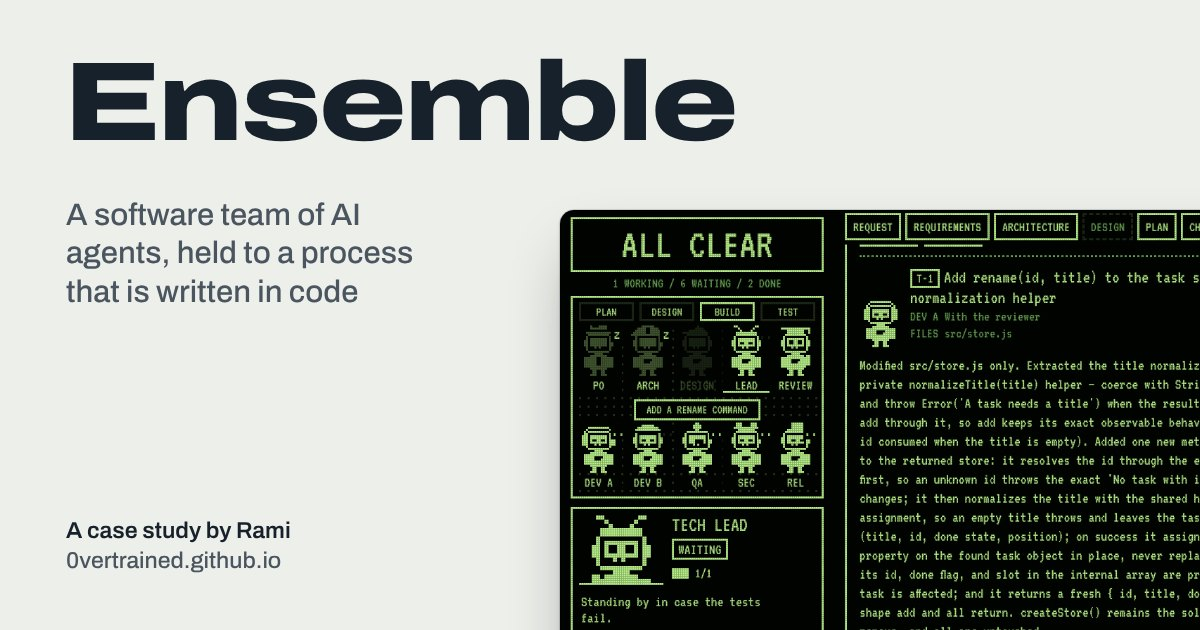
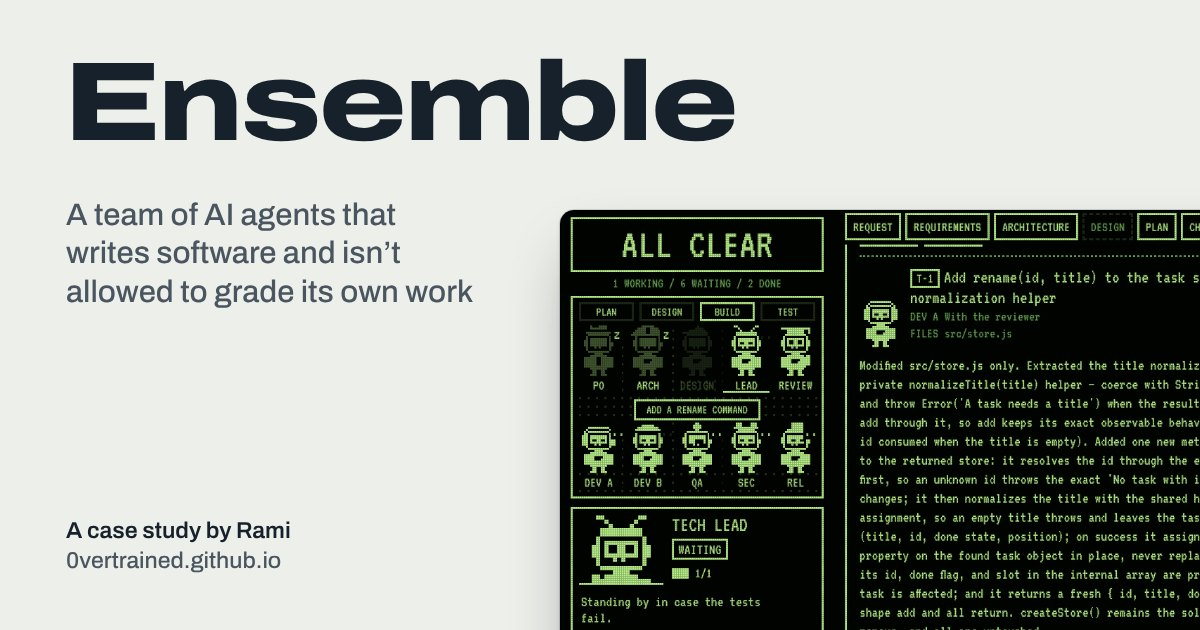
Carry the new line under each title to the case studies and their share pictures
The same four lines now open each case study, lead to the next one, title its link preview, and appear on the not-found page. The share pictures are rebuilt with them.

Changed region(s): [[0.0308, 0.3016, 0.4008, 0.4825]]

diff --git a/work/lattice/index.html b/work/lattice/index.html
@@ -12,7 +12,7 @@
   <link rel="icon" href="../../assets/img/favicon.svg" type="image/svg+xml">
   <meta property="og:type" content="article">
   <meta property="og:url" content="https://0vertrained.github.io/work/lattice/">
-  <meta property="og:title" content="Lattice: robot missions that keep their objective when the route or body changes">
+  <meta property="og:title" content="Lattice: software that keeps a robot’s mission going when the route is blocked or the robot changes">
   <meta property="og:description" content="A case study by Rami: three recorded runs in simulation, the operator console, and how the models were evaluated.">
   <meta property="og:image" content="https://0vertrained.github.io/assets/img/share/lattice.jpg">
   <meta property="og:image:width" content="1200">
@@ -48,7 +48,7 @@
     <article class="project" id="lattice" aria-labelledby="lattice-title">
       <header class="project__head">
         <h1 class="project__title" id="lattice-title" translate="no">Lattice</h1>
-        <p class="project__kind">Robot missions that keep their objective when the route or body changes</p>
+        <p class="project__kind">Software that keeps a robot’s mission going when the route is blocked or the robot changes</p>
       </header>
 
       <figure class="walkthrough project__lead" id="lattice-recording">
@@ -203,7 +203,7 @@
       <a class="onward__next" href="../caduceus/">
         <span class="onward__label">Next</span>
         <span class="onward__name" translate="no">Caduceus</span>
-        <span class="onward__what">A prior-authorization agent that keeps patient data inside the clinic</span>
+        <span class="onward__what">An AI agent for insurance approvals that keeps patient data inside the clinic</span>
       </a>
       <a class="onward__all" href="../../#work">All four pieces of work</a>
     </nav>

diff --git a/work/ensemble/index.html b/work/ensemble/index.html
@@ -12,7 +12,7 @@
   <link rel="icon" href="../../assets/img/favicon.svg" type="image/svg+xml">
   <meta property="og:type" content="article">
   <meta property="og:url" content="https://0vertrained.github.io/work/ensemble/">
-  <meta property="og:title" content="Ensemble: a software team of AI agents, held to a process that is written in code">
+  <meta property="og:title" content="Ensemble: a team of AI agents that writes software and isn’t allowed to grade its own work">
   <meta property="og:description" content="A case study by Rami: five recorded runs that replay in the browser, what the harness checks, and where a model failed.">
   <meta property="og:image" content="https://0vertrained.github.io/assets/img/share/ensemble.jpg">
   <meta property="og:image:width" content="1200">
@@ -45,7 +45,7 @@
     <article class="project" id="ensemble" aria-labelledby="ensemble-title">
       <header class="project__head">
         <h1 class="project__title" id="ensemble-title" translate="no">Ensemble</h1>
-        <p class="project__kind">A software team of AI agents, held to a process that is written in code</p>
+        <p class="project__kind">A team of AI agents that writes software and isn’t allowed to grade its own work</p>
       </header>
 
       <figure class="walkthrough project__lead" id="ensemble-recording">
@@ -174,7 +174,7 @@
       <a class="onward__next" href="../overtrained/">
         <span class="onward__label">Next</span>
         <span class="onward__name" translate="no">0VERTRAINED</span>
-        <span class="onward__what">A training app for athletes who lift and race, designed and built alone</span>
+        <span class="onward__what">A training app for people who lift and race, designed and built alone</span>
       </a>
       <a class="onward__all" href="../../#work">All four pieces of work</a>
     </nav>

diff --git a/work/caduceus/index.html b/work/caduceus/index.html
@@ -12,7 +12,7 @@
   <link rel="icon" href="../../assets/img/favicon.svg" type="image/svg+xml">
   <meta property="og:type" content="article">
   <meta property="og:url" content="https://0vertrained.github.io/work/caduceus/">
-  <meta property="og:title" content="Caduceus: a prior-authorization agent that keeps patient data inside the clinic">
+  <meta property="og:title" content="Caduceus: an AI agent for insurance approvals that keeps patient data inside the clinic">
   <meta property="og:description" content="A case study by Rami: what it does, what leaves the building, and how it was checked on synthetic patients.">
   <meta property="og:image" content="https://0vertrained.github.io/assets/img/share/caduceus.jpg">
   <meta property="og:image:width" content="1200">
@@ -45,7 +45,7 @@
     <article class="project" id="caduceus" aria-labelledby="caduceus-title">
       <header class="project__head">
         <h1 class="project__title" id="caduceus-title" translate="no">Caduceus</h1>
-        <p class="project__kind">A prior-authorization agent that keeps patient data inside the clinic</p>
+        <p class="project__kind">An AI agent for insurance approvals that keeps patient data inside the clinic</p>
       </header>
 
       <figure class="walkthrough project__lead" id="caduceus-walkthrough">
@@ -155,7 +155,7 @@
       <a class="onward__next" href="../ensemble/">
         <span class="onward__label">Next</span>
         <span class="onward__name" translate="no">Ensemble</span>
-        <span class="onward__what">A software team of AI agents, held to a process that is written in code</span>
+        <span class="onward__what">A team of AI agents that writes software and isn’t allowed to grade its own work</span>
       </a>
       <a class="onward__all" href="../../#work">All four pieces of work</a>
     </nav>

diff --git a/work/overtrained/index.html b/work/overtrained/index.html
@@ -12,7 +12,7 @@
   <link rel="icon" href="../../assets/img/favicon.svg" type="image/svg+xml">
   <meta property="og:type" content="article">
   <meta property="og:url" content="https://0vertrained.github.io/work/overtrained/">
-  <meta property="og:title" content="0VERTRAINED: a training app for athletes who lift and race, designed and built alone">
+  <meta property="og:title" content="0VERTRAINED: a training app for people who lift and race, designed and built alone">
   <meta property="og:description" content="A case study by Rami: the product, how recovery and training are worked out, and how it is checked.">
   <meta property="og:image" content="https://0vertrained.github.io/assets/img/share/overtrained.jpg">
   <meta property="og:image:width" content="1200">
@@ -45,7 +45,7 @@
     <article class="project" id="overtrained" aria-labelledby="overtrained-title">
       <header class="project__head">
         <h1 class="project__title" id="overtrained-title" translate="no">0VERTRAINED</h1>
-        <p class="project__kind">A training app for athletes who lift and race, designed and built alone</p>
+        <p class="project__kind">A training app for people who lift and race, designed and built alone</p>
       </header>
 
       <div class="project__lead">
@@ -118,7 +118,7 @@
       <a class="onward__next" href="../lattice/">
         <span class="onward__label">Next</span>
         <span class="onward__name" translate="no">Lattice</span>
-        <span class="onward__what">Robot missions that keep their objective when the route or body changes</span>
+        <span class="onward__what">Software that keeps a robot’s mission going when the route is blocked or the robot changes</span>
       </a>
       <a class="onward__all" href="../../#work">All four pieces of work</a>
     </nav>

diff --git a/404.html b/404.html
@@ -37,10 +37,10 @@
       <p>The address may be mistyped, or the page may have moved. Everything on this site is one step from here.</p>
       <ul class="lost__ways">
         <li><a href="/">The front page</a> <span>The work in brief, experience and contact</span></li>
-        <li><a href="/work/caduceus/" translate="no">Caduceus</a> <span>A prior-authorization agent that keeps patient data inside the clinic</span></li>
-        <li><a href="/work/ensemble/" translate="no">Ensemble</a> <span>A software team of AI agents, held to a process that is written in code</span></li>
-        <li><a href="/work/overtrained/" translate="no">0VERTRAINED</a> <span>A training app for athletes who lift and race, designed and built alone</span></li>
-        <li><a href="/work/lattice/" translate="no">Lattice</a> <span>Robot missions that keep their objective when the route or body changes</span></li>
+        <li><a href="/work/caduceus/" translate="no">Caduceus</a> <span>An AI agent for insurance approvals that keeps patient data inside the clinic</span></li>
+        <li><a href="/work/ensemble/" translate="no">Ensemble</a> <span>A team of AI agents that writes software and isn’t allowed to grade its own work</span></li>
+        <li><a href="/work/overtrained/" translate="no">0VERTRAINED</a> <span>A training app for people who lift and race, designed and built alone</span></li>
+        <li><a href="/work/lattice/" translate="no">Lattice</a> <span>Software that keeps a robot’s mission going when the route is blocked or the robot changes</span></li>
         <li><a href="/assets/Rami-Martinez-resume.pdf" type="application/pdf">The résumé</a> <span>One page, PDF</span></li>
       </ul>
     </section>
